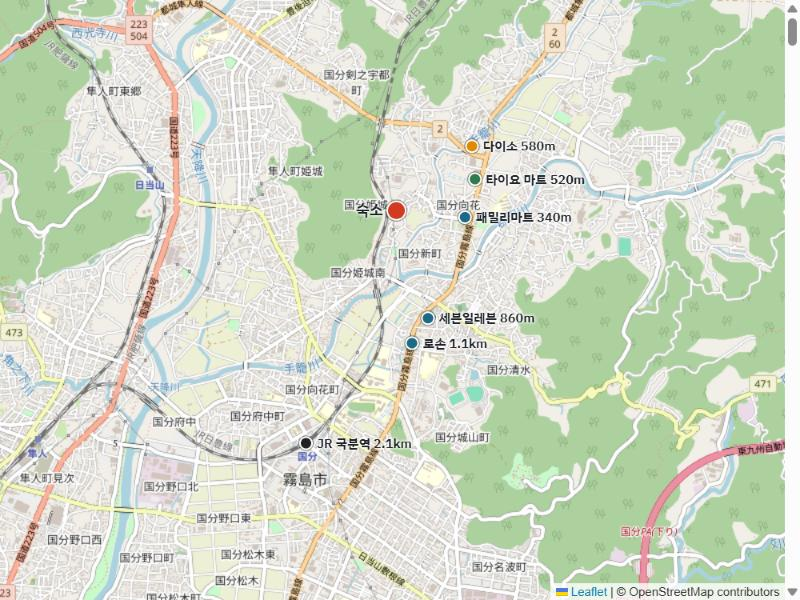
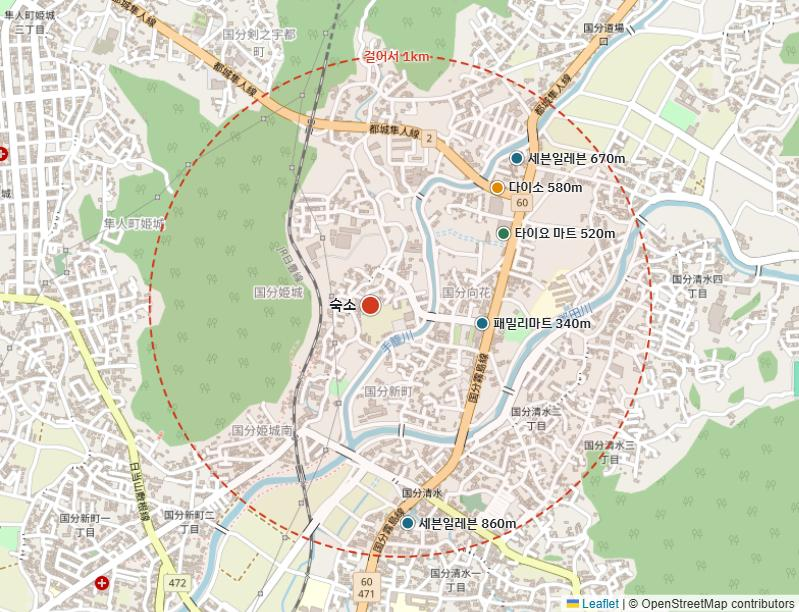
위치정보를 숙소에서 걸어서 1km 이내 기준으로 정리

diff --git a/index.html b/index.html
@@ -318,7 +318,7 @@ footer{padding-top:40px;font-size:13px;color:var(--muted);display:grid;gap:6px}
 
 <!-- 위치정보 -->
 <section id="where">
-  <div class="sec-head"><h2>위치정보</h2><span class="muted small">숙소 기준 직선거리. 걸어서는 1분에 약 80m로 잡으세요(아이 동반·캐리어면 더 걸림). 이름을 누르면 구글 지도로 열립니다.</span></div>
+  <div class="sec-head"><h2>위치정보</h2><span class="muted small">숙소에서 걸어서 갈 수 있는 1km 안쪽만 모았습니다. 거리는 직선거리, 걸어서는 1분에 약 80m로 잡았어요(아이 동반·캐리어면 더 걸림). 이름을 누르면 구글 지도로 열립니다. 고쿠부 숙소에서 가장 가까운 역(JR 국분역)은 2.1km라 걸어가기엔 멀어 뺐습니다.</span></div>
   <div class="where" id="whereList"></div>
   <p class="small muted">지도·가게 위치: © OpenStreetMap contributors (2026-10-23 조회). 영업시간·폐업 여부는 방문 전 지도 앱에서 확인하세요.</p>
 </section>
@@ -615,9 +615,7 @@ footer{padding-top:40px;font-size:13px;color:var(--muted);display:grid;gap:6px}
       ['mart','다이와 (슈퍼)',550,31.7640556,130.7776196,''],
       ['daiso','다이소',580,31.7643151,130.7777658,'타이요 바로 옆'],
       ['conv','세븐일레븐',670,31.7647314,130.778608,''],
-      ['conv','세븐일레븐 (남쪽)',860,31.7527722,130.7739838,''],
-      ['conv','로손',1070,31.7509474,130.7726174,''],
-      ['station','JR 국분역',2100,31.7436752,130.7634412,'차로 약 10분']
+      ['conv','세븐일레븐 (남쪽)',860,31.7527722,130.7739838,'']
     ]],
     ['중앙역 숙소','11/1~11/4 3박','img/map-chuo.jpg',[
       ['home','숙소',0,31.581148,130.540726,'역 서쪽 출구에서 걸어서 3~4분'],
@@ -634,7 +632,7 @@ footer{padding-top:40px;font-size:13px;color:var(--muted);display:grid;gap:6px}
   ];
   function gm(la,lo){return 'https://www.google.com/maps/search/?api=1&query='+la+','+lo}
   function dist(m){return m===0?'':m>=1000?(m/1000).toFixed(1)+'km':m+'m'}
-  function walk(m){return m===0?'':m>=1500?'차로 이동':'걸어서 약 '+Math.max(1,Math.round(m/80))+'분'}
+  function walk(m){return m===0?'':'걸어서 약 '+Math.max(1,Math.round(m/80))+'분'}
   document.getElementById('whereList').innerHTML=where.map(function(w){
     return '<div class="where-block"><h3>'+w[0]+' <span class="muted small">'+w[1]+'</span></h3>'+
       '<figure class="mapshot"><a href="'+w[2]+'" target="_blank" rel="noopener"><img src="'+w[2]+'" alt="'+w[0]+' 주변 지도: 숙소, 마트, 다이소, 편의점, 역 위치" loading="lazy"></a><figcaption>지도를 누르면 크게 볼 수 있어요 · © OpenStreetMap contributors</figcaption></figure>'+
